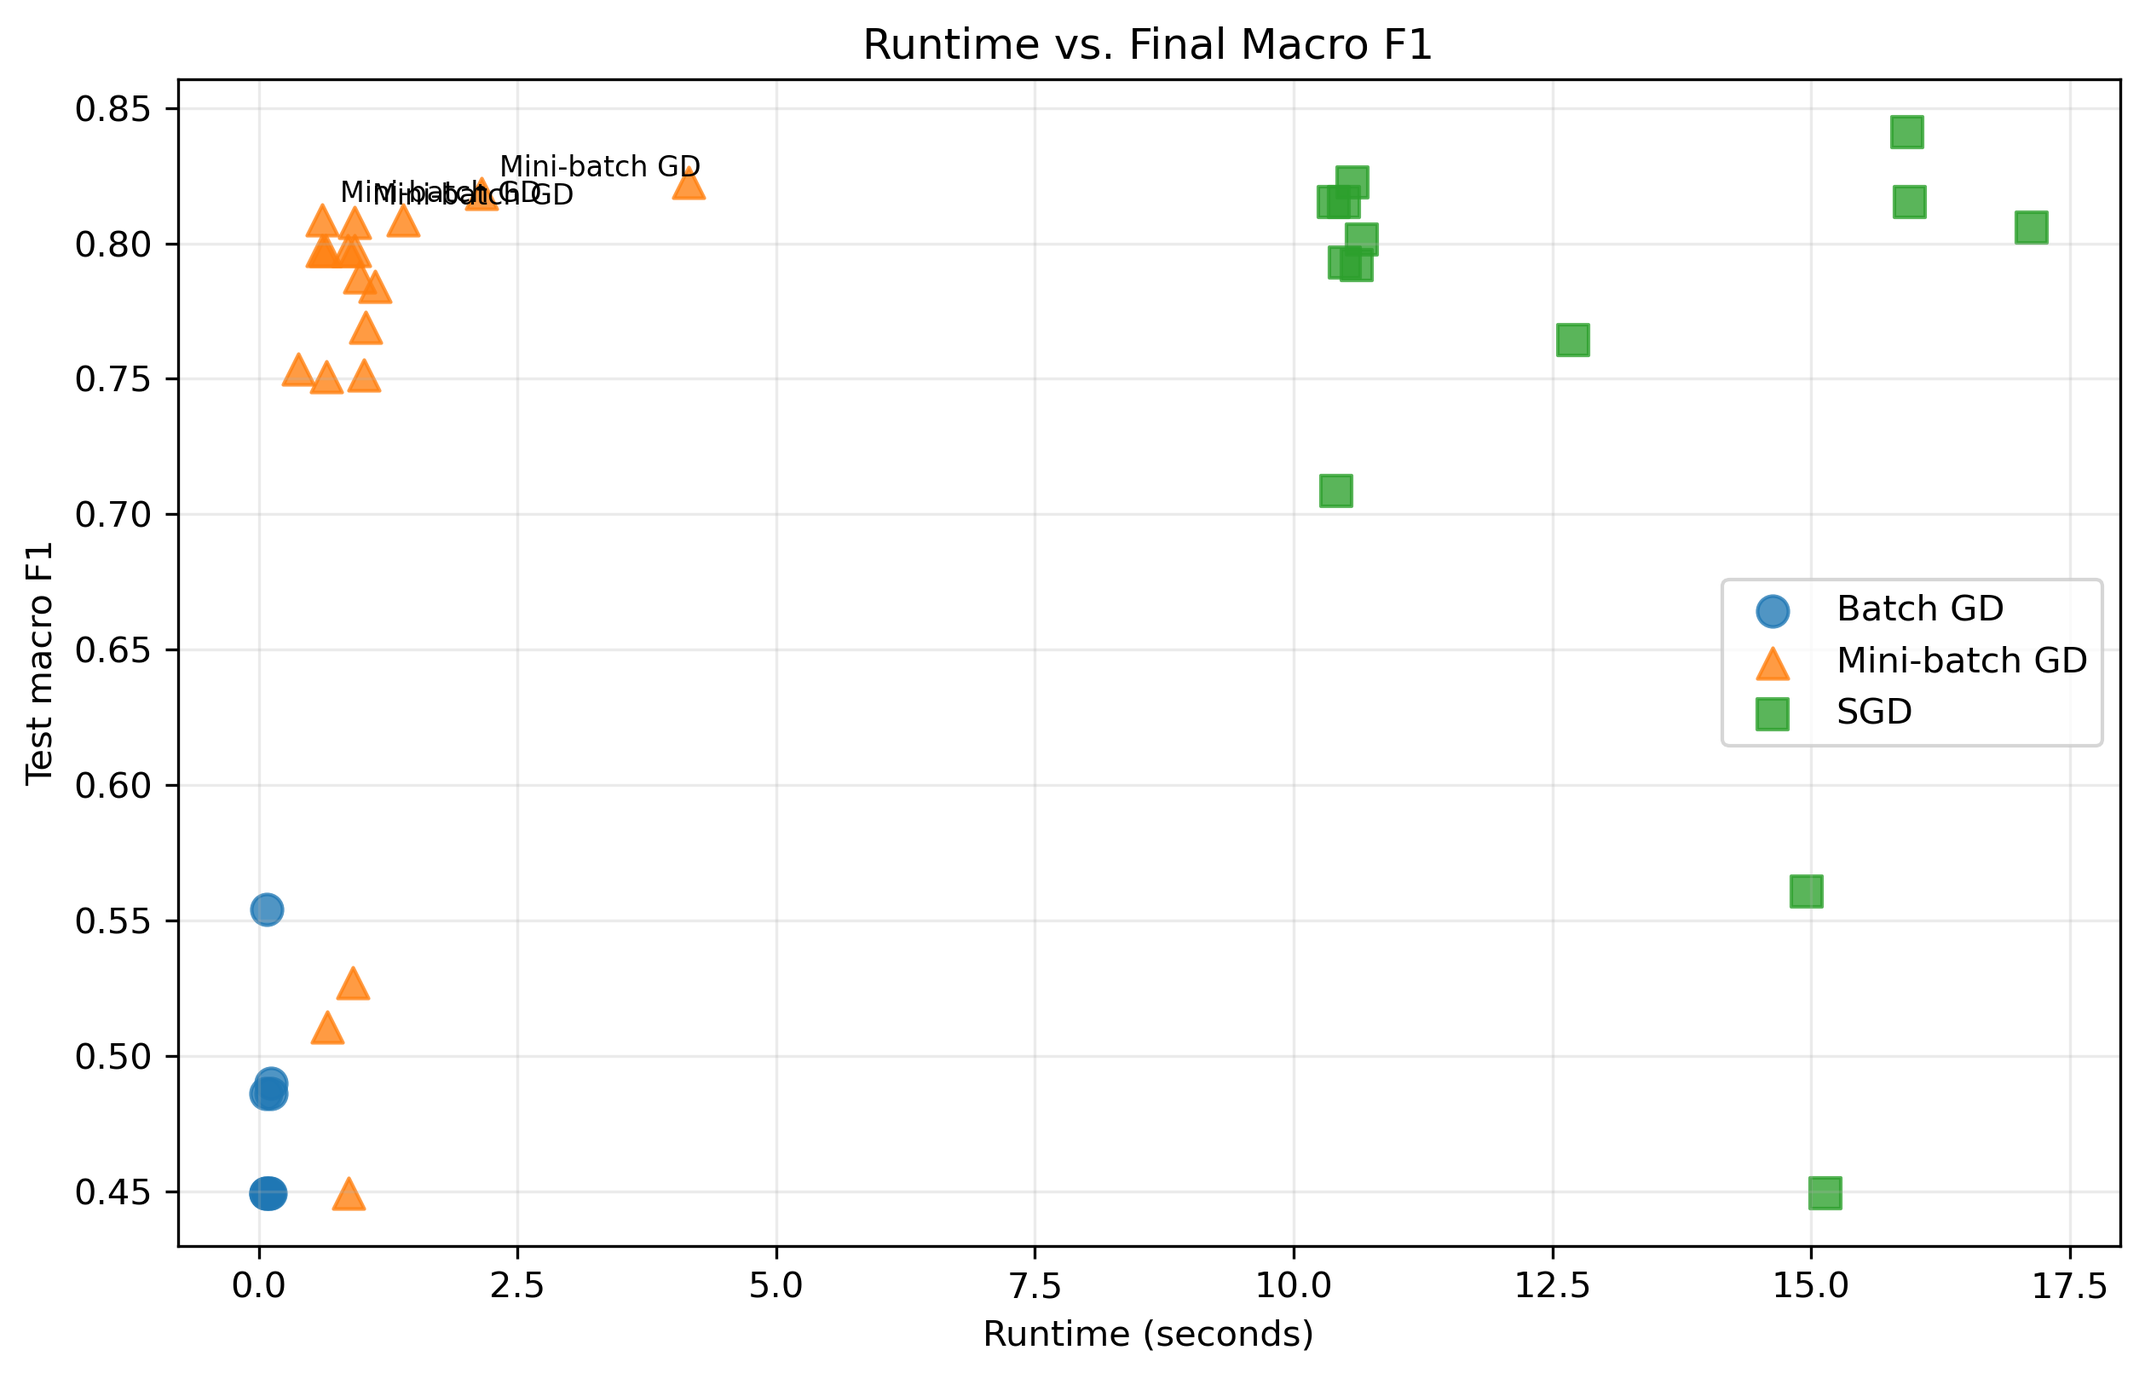
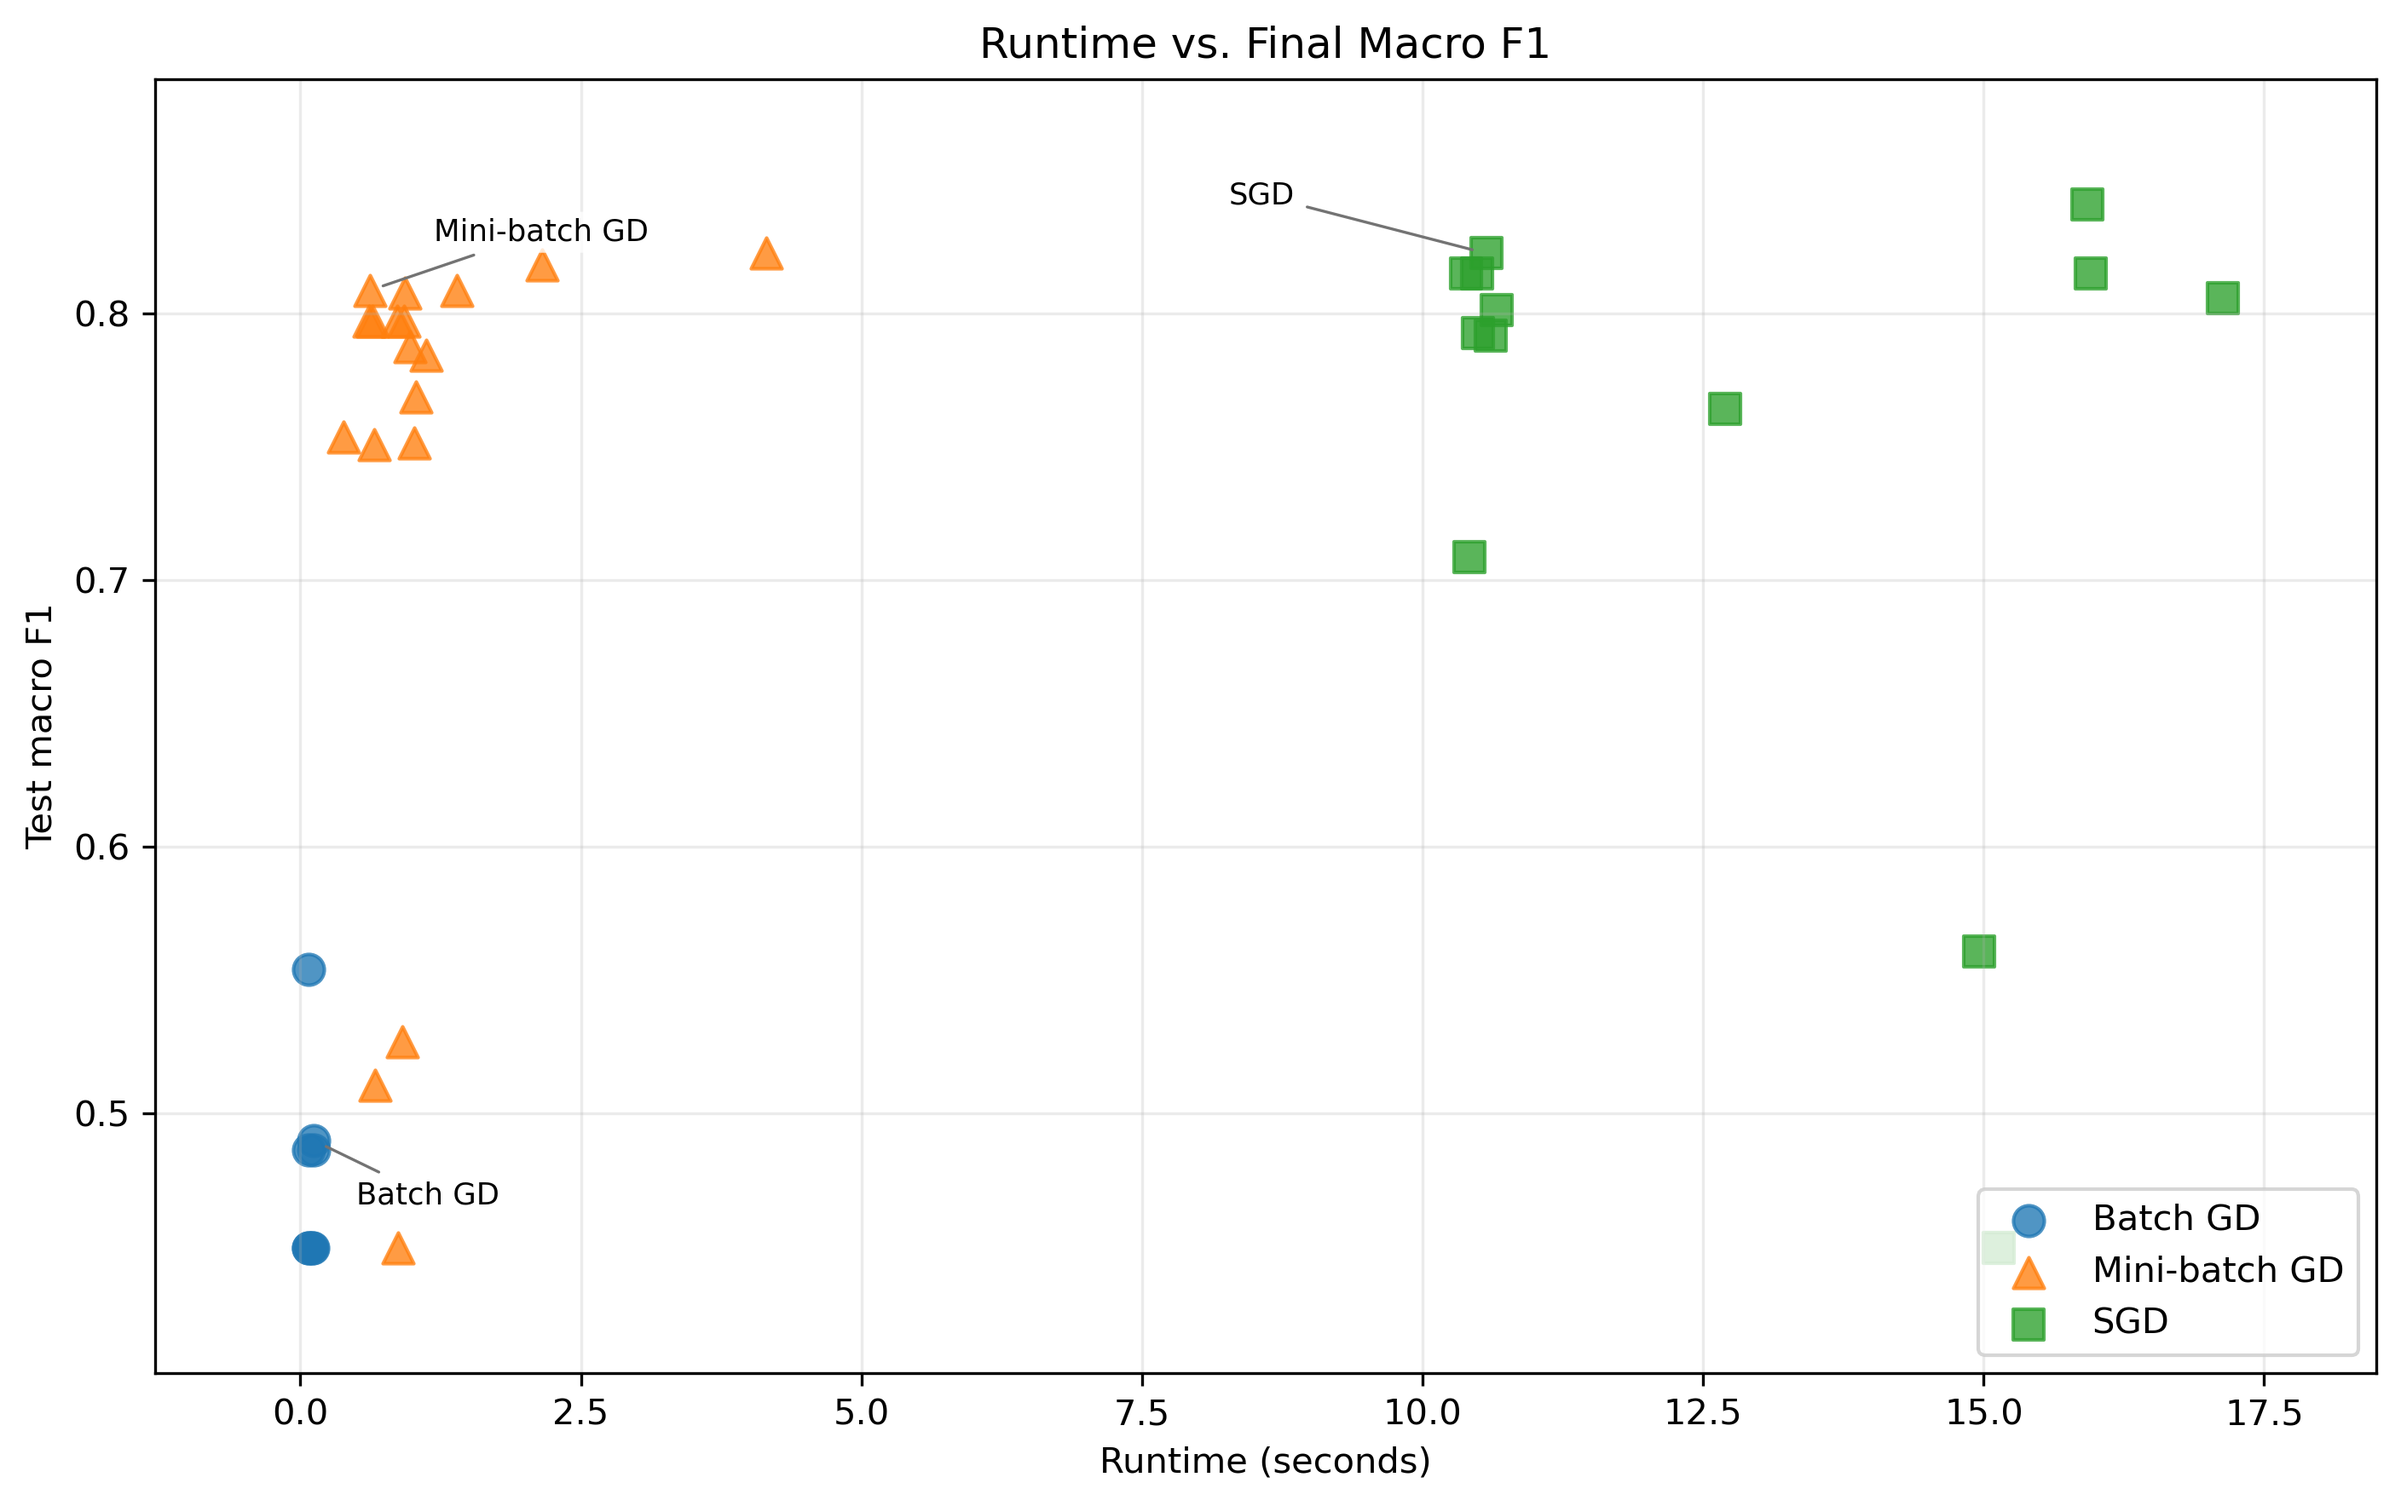
Fixed a few things

diff --git a/optimizer_tradeoff_experiments.py b/optimizer_tradeoff_experiments.py
@@ -387,16 +387,55 @@ def save_seed_stability_boxplot(results: pd.DataFrame, output: Path) -> bool:
         return False
 
     optimizers = sorted(stability["optimizer"].unique())
-    values = [
-        stability.loc[stability["optimizer"] == optimizer, "validation_macro_f1"].to_numpy()
-        for optimizer in optimizers
-    ]
+    colors = {"Mini-batch GD": "#ff7f0e", "SGD": "#2ca02c"}
     fig, ax = plt.subplots(figsize=(7.5, 5))
-    ax.boxplot(values, labels=optimizers, showmeans=True)
+    for x_pos, optimizer in enumerate(optimizers, start=1):
+        group = stability.loc[stability["optimizer"] == optimizer].sort_values("seed")
+        values = group["validation_macro_f1"].to_numpy()
+        seeds = group["seed"].to_numpy()
+        jitter = np.linspace(-0.08, 0.08, len(values)) if len(values) > 1 else np.array([0.0])
+        ax.scatter(
+            np.full(len(values), x_pos) + jitter,
+            values,
+            s=55,
+            color=colors.get(optimizer, "#1f77b4"),
+            alpha=0.75,
+            edgecolor="black",
+            linewidth=0.5,
+            zorder=3,
+        )
+        for point_x, point_y, seed in zip(np.full(len(values), x_pos) + jitter, values, seeds):
+            ax.annotate(
+                int(seed),
+                (point_x, point_y),
+                xytext=(0, 7),
+                textcoords="offset points",
+                ha="center",
+                fontsize=7,
+                alpha=0.8,
+            )
+        mean = float(np.mean(values))
+        std = float(np.std(values, ddof=1)) if len(values) > 1 else 0.0
+        ci = 1.96 * std / np.sqrt(len(values)) if len(values) > 1 else 0.0
+        ax.errorbar(
+            x_pos,
+            mean,
+            yerr=ci,
+            fmt="D",
+            color="black",
+            ecolor="black",
+            elinewidth=1.8,
+            capsize=7,
+            markersize=7,
+            zorder=4,
+            label="Mean +/- 95% CI" if x_pos == 1 else None,
+        )
+    ax.set_xticks(np.arange(1, len(optimizers) + 1), optimizers)
     ax.set_title("Seed Stability: Validation Macro F1 by Optimizer")
     ax.set_xlabel("Optimizer")
     ax.set_ylabel("Validation macro F1")
     ax.grid(axis="y", alpha=0.25)
+    ax.legend(loc="best")
     fig.tight_layout()
     fig.savefig(output, dpi=300, bbox_inches="tight")
     plt.close(fig)
@@ -742,7 +781,7 @@ def main() -> None:
             "loss_history": str(args.loss_output),
             "stability_summary": str(args.stability_output),
             "seed_stability_summary": str(args.seed_stability_output),
-            "seed_stability_boxplot": str(args.seed_stability_plot_output)
+            "seed_stability_plot": str(args.seed_stability_plot_output)
             if seed_stability_plot_saved
             else None,
             "selected_configs": str(args.selected_configs_output),
@@ -756,9 +795,9 @@ def main() -> None:
     print(f"Saved validation stability summary to: {args.stability_output}")
     print(f"Saved seed stability summary to: {args.seed_stability_output}")
     if seed_stability_plot_saved:
-        print(f"Saved seed stability boxplot to: {args.seed_stability_plot_output}")
+        print(f"Saved seed stability plot to: {args.seed_stability_plot_output}")
     else:
-        print("Skipped seed stability boxplot because no seed-stability data or matplotlib was unavailable.")
+        print("Skipped seed stability plot because no seed-stability data or matplotlib was unavailable.")
     print(f"Saved selected optimizer configs to: {args.selected_configs_output}")
     print(f"Saved final test optimizer results to: {args.final_test_results_output}")
     print(f"Saved validation optimizer report to: {args.report_output}")

diff --git a/analyze_optimizer_tradeoffs.py b/analyze_optimizer_tradeoffs.py
@@ -285,10 +285,10 @@ def plot_loss_curves(results: pd.DataFrame, loss: pd.DataFrame, path: Path) -> N
 
 
 def plot_runtime_vs_macro_f1(results: pd.DataFrame, path: Path) -> None:
-    plt.figure(figsize=(8.5, 5.5))
+    fig, ax = plt.subplots(figsize=(9.5, 6.0))
     markers = {"Batch GD": "o", "SGD": "s", "Mini-batch GD": "^"}
     for optimizer, group in results.groupby("optimizer"):
-        plt.scatter(
+        ax.scatter(
             group["runtime_seconds"],
             group["test_macro_f1"],
             s=75,
@@ -296,19 +296,29 @@ def plot_runtime_vs_macro_f1(results: pd.DataFrame, path: Path) -> None:
             marker=markers.get(optimizer, "o"),
             label=optimizer,
         )
-    for _, row in results.nlargest(3, "practical_score").iterrows():
-        plt.annotate(
+    label_offsets = {
+        "Batch GD": (12, -18),
+        "Mini-batch GD": (18, 14),
+        "SGD": (-54, 14),
+    }
+    for optimizer, group in results.groupby("optimizer"):
+        row = group.loc[group["practical_score"].idxmax()]
+        ax.annotate(
             row["optimizer"],
             (row["runtime_seconds"], row["test_macro_f1"]),
-            xytext=(5, 5),
+            xytext=label_offsets.get(row["optimizer"], (10, 10)),
             textcoords="offset points",
-            fontsize=8,
+            fontsize=8.5,
+            ha="right" if row["optimizer"] == "SGD" else "left",
+            bbox={"boxstyle": "round,pad=0.2", "fc": "white", "ec": "none", "alpha": 0.78},
+            arrowprops={"arrowstyle": "-", "color": "0.45", "lw": 0.8, "shrinkA": 2, "shrinkB": 4},
         )
-    plt.title("Runtime vs. Final Macro F1")
-    plt.xlabel("Runtime (seconds)")
-    plt.ylabel("Test macro F1")
-    plt.grid(alpha=0.25)
-    plt.legend()
+    ax.set_title("Runtime vs. Final Macro F1")
+    ax.set_xlabel("Runtime (seconds)")
+    ax.set_ylabel("Test macro F1")
+    ax.margins(x=0.08, y=0.12)
+    ax.grid(alpha=0.25)
+    ax.legend(loc="lower right")
     save_figure(path)
 
 

diff --git a/README.md b/README.md
@@ -92,12 +92,14 @@ $$
 The optimization objective is binary cross-entropy with L2 regularization:
 
 $$
+\begin{aligned}
 J(w,b) =
--\frac{1}{n}\sum_{i=1}^{n}
+&-\frac{1}{n}\sum_{i=1}^{n}
 \left[
 y_i \log(p_i) + (1-y_i)\log(1-p_i)
-\right]
-+ \frac{\lambda}{2}\lVert w\rVert_2^2
+\right] \\
+&+ \frac{\lambda}{2}\lVert w\rVert_2^2
+\end{aligned}
 $$
 
 The corresponding full-training-set gradients are:
@@ -324,7 +326,7 @@ The sklearn model provides a useful sanity check: it trains quickly and lands in
 
 ### Seed Stability
 
-The seed-stability scenario reruns SGD and Mini-batch GD across seeds 1, 7, 42, 99, and 123. The summary is saved to `optimizer_seed_stability_summary.csv`, and a macro-F1 boxplot is saved to `results/figures/seed_stability_boxplot.png`.
+The seed-stability scenario reruns SGD and Mini-batch GD across seeds 1, 7, 42, 99, and 123. The summary is saved to `optimizer_seed_stability_summary.csv`, and a compact dot plot with individual seeds plus mean and 95% confidence interval is saved to `results/figures/seed_stability_boxplot.png`.
 
 | Optimizer | Seeds | Mean accuracy | Mean macro F1 | 95% CI macro F1 | Mean weighted F1 | Mean runtime (s) | Mean final loss |
 | --- | ---: | ---: | ---: | --- | ---: | ---: | ---: |
